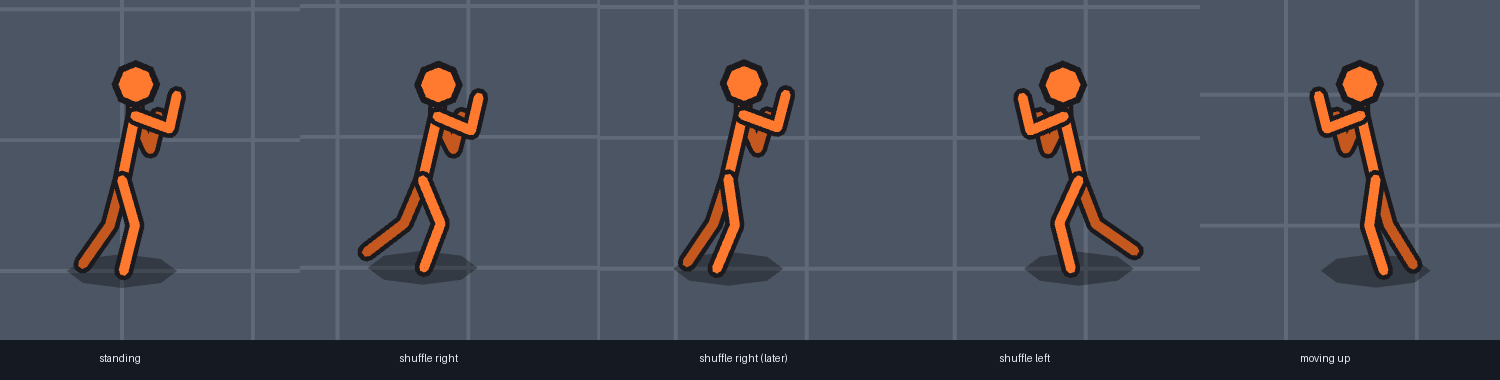
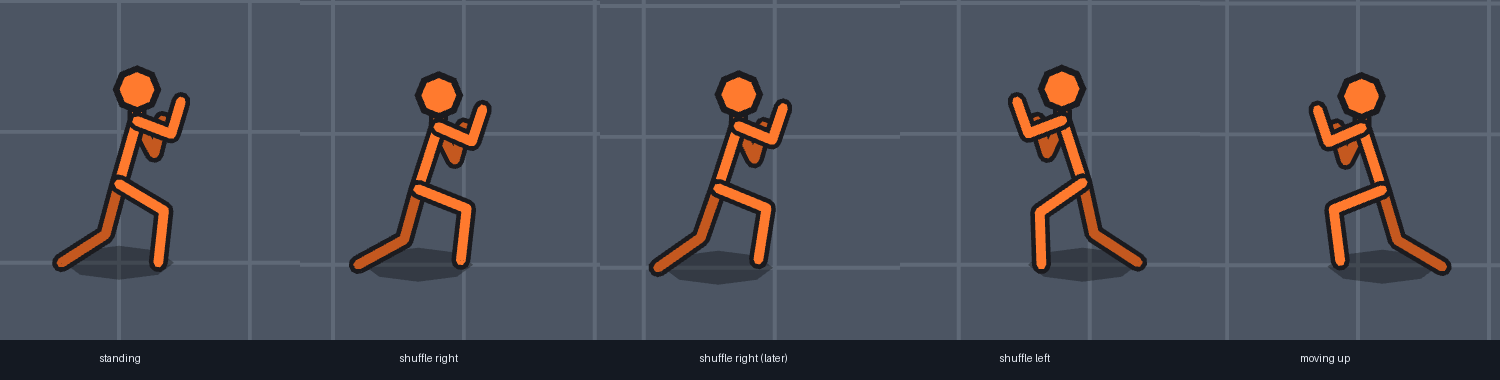
Wider, lower fighting stance with leg IK and planted feet
Two-bone leg IK places both feet on the floor in a ~0.74 m stagger:
long driving rear leg, bent lead knee, low hips, tucked chin, light
bounce when idle. Test fighter legs lengthened to suit. Tests cover IK
accuracy, planted feet, stance width and that knees never lock.
(owner request)

Claude-Session: https://claude.ai/code/session_01QBNX6gUrhxuARRaUjYajAg

diff --git a/tests/unit/animation/skeleton.test.ts b/tests/unit/animation/skeleton.test.ts
@@ -1,20 +1,20 @@
 import { describe, expect, it } from 'vitest';
 import { StickmanAnimator } from '../../../src/animation/animator';
 import { AIR_POSE, idlePose, WALK_STRIDE_M, walkPose } from '../../../src/animation/greybox-motion';
-import { blendPose, type Pose, solveSkeleton } from '../../../src/animation/skeleton';
+import { blendPose, legIk, type Pose, solveSkeleton } from '../../../src/animation/skeleton';
 import { GREYBOX_STICKMAN } from '../../../src/data/fighters/greybox-stickman';
 
 const BONES = GREYBOX_STICKMAN.bones;
 const samplePoses: [string, Pose][] = [
-  ['idle 0s', idlePose(0)],
-  ['idle 1.3s', idlePose(1.3)],
-  ...[0, 0.25, 0.5, 0.75].map((p): [string, Pose] => [`walk ${p}`, walkPose(p)]),
+  ['idle 0s', idlePose(0, BONES)],
+  ['idle bounce', idlePose(0.14, BONES)],
+  ...[0, 0.25, 0.5, 0.75].map((p): [string, Pose] => [`walk ${p}`, walkPose(p, BONES)]),
   ['air', AIR_POSE],
 ];
 
 describe('jointed skeleton (REQ-ANI-6)', () => {
   it('has a real elbow and knee on every limb, and they actually bend', () => {
-    const s = solveSkeleton(walkPose(0.25), BONES);
+    const s = solveSkeleton(walkPose(0.25, BONES), BONES);
     for (const limb of [s.armFront, s.armBack, s.legFront, s.legBack]) {
       expect(limb).toHaveLength(3); // root → middle joint → end
       const [a, b, c] = limb;
@@ -45,16 +45,59 @@ describe('jointed skeleton (REQ-ANI-6)', () => {
 
   it('fighting shuffle: feet stay staggered (lead foot ahead) and never cross at any point in the cycle', () => {
     for (let i = 0; i < 40; i++) {
-      const s = solveSkeleton(walkPose(i / 40), BONES);
-      expect(s.legFront[2].x - s.legBack[2].x).toBeGreaterThan(0.12);
+      const s = solveSkeleton(walkPose(i / 40, BONES), BONES);
+      expect(s.legFront[2].x - s.legBack[2].x).toBeGreaterThan(0.45); // wide even mid-step
     }
-    const idle = solveSkeleton(idlePose(0), BONES);
-    expect(idle.legFront[2].x - idle.legBack[2].x).toBeGreaterThan(0.12);
+  });
+
+  it('idle is a wide, low, planted stance: both feet on the floor about 0.74 m apart, knees bent', () => {
+    for (const t of [0, 0.1, 0.2, 0.3, 0.4]) {
+      const s = solveSkeleton(idlePose(t, BONES), BONES);
+      expect(s.legFront[2].y).toBeCloseTo(0, 3);
+      expect(s.legBack[2].y).toBeCloseTo(0, 3);
+      expect(s.legFront[2].x - s.legBack[2].x).toBeGreaterThan(0.6);
+      // crouched: hips clearly lower than a straight-legged stand
+      expect(-s.pelvis.y).toBeLessThan(BONES.thigh + BONES.shin - 0.08);
+    }
+  });
+
+  it('knees never lock fully straight while standing or shuffling (no stiff legs)', () => {
+    const straight = BONES.thigh + BONES.shin;
+    const poses = [
+      ...[0, 0.1, 0.2, 0.3].map((t) => idlePose(t, BONES)),
+      ...Array.from({ length: 40 }, (_, i) => walkPose(i / 40, BONES)),
+    ];
+    for (const pose of poses) {
+      const s = solveSkeleton(pose, BONES);
+      for (const [hip, , foot] of [s.legFront, s.legBack]) {
+        expect(Math.hypot(foot.x - hip.x, foot.y - hip.y)).toBeLessThan(straight - 0.012);
+      }
+    }
   });
 
   it('blends joint by joint', () => {
-    const mid = blendPose(idlePose(0), AIR_POSE, 0.5);
-    expect(mid.legFront.bend).toBeCloseTo((idlePose(0).legFront.bend + AIR_POSE.legFront.bend) / 2, 9);
+    const mid = blendPose(idlePose(0, BONES), AIR_POSE, 0.5);
+    expect(mid.legFront.bend).toBeCloseTo((idlePose(0, BONES).legFront.bend + AIR_POSE.legFront.bend) / 2, 9);
+  });
+});
+
+describe('legIk', () => {
+  it('puts the foot exactly on the target with the knee bent forward', () => {
+    const leg = legIk(0.3, 0.6, BONES.thigh, BONES.shin);
+    const kneeX = Math.sin(leg.root) * BONES.thigh;
+    const kneeY = Math.cos(leg.root) * BONES.thigh;
+    const footX = kneeX + Math.sin(leg.root + leg.bend) * BONES.shin;
+    const footY = kneeY + Math.cos(leg.root + leg.bend) * BONES.shin;
+    expect(footX).toBeCloseTo(0.3, 6);
+    expect(footY).toBeCloseTo(0.6, 6);
+    expect(leg.bend).toBeLessThan(0); // knee flexes like a real knee
+    expect(kneeX).toBeGreaterThan(0.3 * (kneeY / 0.6)); // knee sits forward of the hip–foot line
+  });
+
+  it('reaches as far as it can towards an out-of-range target without breaking', () => {
+    const leg = legIk(2, 2, BONES.thigh, BONES.shin);
+    expect(Number.isFinite(leg.root)).toBe(true);
+    expect(Math.abs(leg.bend)).toBeLessThan(0.05); // nearly straight
   });
 });
 
@@ -62,7 +105,7 @@ describe('StickmanAnimator', () => {
   const motion = { speedMps: 5, maxSpeedMps: 5, heightM: 0, peakHeightM: 0.4 };
 
   it('eases into the walk instead of snapping', () => {
-    const anim = new StickmanAnimator();
+    const anim = new StickmanAnimator(BONES);
     anim.update(1 / 60, motion);
     expect(anim.weights.walk).toBeGreaterThan(0);
     expect(anim.weights.walk).toBeLessThan(0.3);
@@ -71,7 +114,7 @@ describe('StickmanAnimator', () => {
   });
 
   it('blends towards the airborne pose with hop height and back on landing', () => {
-    const anim = new StickmanAnimator();
+    const anim = new StickmanAnimator(BONES);
     for (let i = 0; i < 30; i++) anim.update(1 / 60, { ...motion, speedMps: 0, heightM: 0.4 });
     expect(anim.weights.air).toBeGreaterThan(0.95);
     for (let i = 0; i < 30; i++) anim.update(1 / 60, { ...motion, speedMps: 0, heightM: 0 });
@@ -81,8 +124,8 @@ describe('StickmanAnimator', () => {
   it('a stride of walking distance advances exactly one walk cycle (feet keep pace)', () => {
     expect(WALK_STRIDE_M).toBeGreaterThan(0);
     // One stride of distance returns the cycle to its starting pose.
-    const a = new StickmanAnimator();
-    const b = new StickmanAnimator();
+    const a = new StickmanAnimator(BONES);
+    const b = new StickmanAnimator(BONES);
     for (let i = 0; i < 120; i++) {
       a.update(1 / 60, motion);
       b.update(1 / 60, motion);

diff --git a/src/animation/greybox-motion.ts b/src/animation/greybox-motion.ts
@@ -1,4 +1,4 @@
-import type { Pose } from './skeleton';
+import { type BoneLengths, legIk, type Pose } from './skeleton';
 
 /**
  * GREYBOX idle, walk and airborne motion for the Phase 2 test stickman.
@@ -12,45 +12,81 @@ const TAU = Math.PI * 2;
 // positive (forearm forward), knees bend negative (shin backward), like real joints.
 
 /**
- * FIGHTING STANCE at all times (owner, 11/11/2026): hands up in a guard by the
- * chin (lead fist forward, rear fist tucked), knees bent, feet staggered with
- * the lead foot ahead, torso leaning into the fight. Idle breathes inside the
- * stance; it never relaxes into a casual pose.
+ * FIGHTING STANCE at all times (owner, 11/11/2026): a wide, low, staggered
+ * base with both feet planted (leg IK), knees bent over the toes, torso leaning
+ * in, chin tucked, guard up (lead fist forward at chin height, rear fist by
+ * the jaw). Idle bounces lightly on the balls of the feet; it never relaxes.
  */
-export function idlePose(timeS: number): Pose {
-  const breath = 0.5 + 0.5 * Math.sin((timeS / 2.4) * TAU); // 0..1
+interface StanceShape {
+  /** Pelvis height above the floor (lower = deeper crouch). */
+  pelvisM: number;
+  /** Foot positions relative to the pelvis (+x towards facing). */
+  leadFootX: number;
+  rearFootX: number;
+  leadLiftM?: number;
+  rearLiftM?: number;
+  lean: number;
+  head: number;
+  /** 0..1 small guard bob. */
+  guard: number;
+}
+
+/**
+ * Wide stagger, about 0.74 m between the feet: the lead knee does the bending,
+ * the rear leg stays long and nearly straight, driving from the ball of the foot.
+ */
+const LEAD_FOOT_X = 0.3;
+const REAR_FOOT_X = -0.44;
+const CROUCH_M = 0.62;
+
+function fightingStance(s: StanceShape, bones: BoneLengths): Pose {
   return {
-    lean: deg(-10 - breath * 1.5),
-    head: deg(10),
-    armFront: { root: deg(84 - breath * 3), bend: deg(94 + breath * 4) },
-    armBack: { root: deg(36), bend: deg(140 + breath * 2) },
-    legFront: { root: deg(16), bend: deg(-26 - breath * 4) },
-    legBack: { root: deg(-15), bend: deg(-16 - breath * 4) },
+    lean: deg(s.lean),
+    head: deg(s.head),
+    armFront: { root: deg(88 - s.guard * 4), bend: deg(90 + s.guard * 6) },
+    armBack: { root: deg(42 + s.guard * 3), bend: deg(138) },
+    legFront: legIk(s.leadFootX, s.pelvisM - (s.leadLiftM ?? 0), bones.thigh, bones.shin),
+    legBack: legIk(s.rearFootX, s.pelvisM - (s.rearLiftM ?? 0), bones.thigh, bones.shin),
   };
+}
+
+/** Idle: planted wide stance with a light bounce on the balls of the feet (1.8 bounces per second). */
+export function idlePose(timeS: number, bones: BoneLengths): Pose {
+  const bounce = 0.5 + 0.5 * Math.sin(timeS * TAU * 1.8);
+  return fightingStance(
+    {
+      pelvisM: CROUCH_M - bounce * 0.025,
+      leadFootX: LEAD_FOOT_X,
+      rearFootX: REAR_FOOT_X,
+      lean: -16,
+      head: 16,
+      guard: bounce,
+    },
+    bones,
+  );
 }
 
 /**
  * Fighting shuffle, sampled by phase (0..1 per cycle). The caller advances the
  * phase by distance travelled / stride, so feet keep pace with the ground.
- * Boxer footwork: the lead foot steps, the rear foot follows a quarter-cycle
- * later; feet stay low, keep their stagger and never cross. The guard stays up
- * with only a small bob: no swinging arms.
+ * The lead foot steps, the rear foot follows a quarter-cycle later; feet stay
+ * low, keep the wide stagger and never cross. The guard only bobs.
  */
-export function walkPose(phase: number): Pose {
+export function walkPose(phase: number, bones: BoneLengths): Pose {
   const a = phase * TAU;
-  const lead = Math.sin(a);
-  const rear = Math.sin(a - Math.PI / 2);
-  const leadLift = Math.max(0, Math.cos(a));
-  const rearLift = Math.max(0, Math.cos(a - Math.PI / 2));
-  const bob = 0.5 + 0.5 * Math.sin(2 * a);
-  return {
-    lean: deg(-13),
-    head: deg(11),
-    armFront: { root: deg(84 - bob * 4), bend: deg(94 + bob * 6) },
-    armBack: { root: deg(36 + bob * 3), bend: deg(140) },
-    legFront: { root: deg(17 + lead * 9), bend: deg(-26 - leadLift * 22) },
-    legBack: { root: deg(-16 + rear * 9), bend: deg(-16 - rearLift * 22) },
-  };
+  return fightingStance(
+    {
+      pelvisM: CROUCH_M - 0.015 * Math.sin(2 * a),
+      leadFootX: LEAD_FOOT_X + 0.06 * Math.sin(a),
+      rearFootX: REAR_FOOT_X + 0.02 * Math.sin(a - Math.PI / 2),
+      leadLiftM: 0.07 * Math.max(0, Math.cos(a)),
+      rearLiftM: 0.07 * Math.max(0, Math.cos(a - Math.PI / 2)),
+      lean: -18,
+      head: 17,
+      guard: 0.5 + 0.5 * Math.sin(2 * a),
+    },
+    bones,
+  );
 }
 
 /** Distance (m) covered by one full shuffle cycle (lead step + rear follow). */
@@ -58,8 +94,8 @@ export const WALK_STRIDE_M = 1.1;
 
 /** Airborne tuck: knees up, guard kept up. */
 export const AIR_POSE: Pose = {
-  lean: deg(-8),
-  head: deg(6),
+  lean: deg(-12),
+  head: deg(12),
   armFront: { root: deg(95), bend: deg(85) },
   armBack: { root: deg(45), bend: deg(130) },
   legFront: { root: deg(60), bend: deg(-95) },

diff --git a/src/animation/animator.ts b/src/animation/animator.ts
@@ -1,5 +1,5 @@
 import { AIR_POSE, idlePose, WALK_STRIDE_M, walkPose } from './greybox-motion';
-import { blendPose, type Pose } from './skeleton';
+import { type BoneLengths, blendPose, type Pose } from './skeleton';
 
 /** Exponential smoothing factor for a time step (frame-rate independent). */
 export function smoothing(rate: number, dtS: number): number {
@@ -26,6 +26,8 @@ export class StickmanAnimator {
   private walkWeight = 0;
   private airWeight = 0;
 
+  constructor(private readonly bones: BoneLengths) {}
+
   /** Advance by a time step and return the pose to draw. */
   update(dtS: number, motion: MotionInput): Pose {
     this.timeS += dtS;
@@ -36,7 +38,7 @@ export class StickmanAnimator {
     const airTarget = motion.peakHeightM > 0 ? Math.min(1, motion.heightM / (motion.peakHeightM * 0.4)) : 0;
     this.airWeight += (airTarget - this.airWeight) * smoothing(18, dtS);
 
-    const grounded = blendPose(idlePose(this.timeS), walkPose(this.walkPhase), this.walkWeight);
+    const grounded = blendPose(idlePose(this.timeS, this.bones), walkPose(this.walkPhase, this.bones), this.walkWeight);
     return blendPose(grounded, AIR_POSE, this.airWeight);
   }
 

diff --git a/src/animation/skeleton.ts b/src/animation/skeleton.ts
@@ -115,3 +115,20 @@ export function blendPose(a: Pose, b: Pose, t: number): Pose {
     legBack: limb(a.legBack, b.legBack),
   };
 }
+
+/**
+ * Two-bone leg IK (TD-022): angles that put the foot exactly at (footX, footY)
+ * relative to the pelvis (+x towards facing, +y down), with the knee bending
+ * forward over the toes like a real leg. Out-of-reach targets are approached
+ * along the same line with the leg almost straight.
+ */
+export function legIk(footX: number, footY: number, thigh: number, shin: number): Limb {
+  const reach = Math.min(Math.hypot(footX, footY), thigh + shin - 1e-4);
+  const toFoot = Math.atan2(footX, footY);
+  const cosHip = (thigh * thigh + reach * reach - shin * shin) / (2 * thigh * reach);
+  const thighAngle = toFoot + Math.acos(Math.min(1, Math.max(-1, cosHip)));
+  const kneeX = Math.sin(thighAngle) * thigh;
+  const kneeY = Math.cos(thighAngle) * thigh;
+  const shinAngle = Math.atan2(footX - kneeX, footY - kneeY);
+  return { root: thighAngle, bend: shinAngle - thighAngle };
+}

diff --git a/src/app/scenes/training-yard-scene.ts b/src/app/scenes/training-yard-scene.ts
@@ -35,7 +35,7 @@ export class TrainingYardScene implements ArenaScene {
   private view: GreyboxArenaView | null = null;
   private stickman: StickmanView | null = null;
   private body: ReturnType<PhysicsWorld['addCharacterBody']> | null = null;
-  private readonly animator = new StickmanAnimator();
+  private readonly animator = new StickmanAnimator(GREYBOX_STICKMAN.bones);
   private hop: HopState = { heightM: 0, verticalSpeedMps: 0 };
   private prevHop = 0;
   private readonly prev = { x: 0, y: 0 };

diff --git a/src/data/fighters/greybox-stickman.ts b/src/data/fighters/greybox-stickman.ts
@@ -25,8 +25,8 @@ export const GREYBOX_STICKMAN = {
     headRadius: 0.16,
     upperArm: 0.28,
     foreArm: 0.26,
-    thigh: 0.36,
-    shin: 0.36,
+    thigh: 0.4,
+    shin: 0.4,
   },
   look: {
     limb: 0xff7a2e,

diff --git a/DEVELOPMENT_PROGRESS.md b/DEVELOPMENT_PROGRESS.md
@@ -175,6 +175,13 @@ TD-017 updated: game on GitHub Pages (manual deploy workflow); Supabase Free sti
 - The hop is visual only (cannot clear obstacles); revisit in combat or arena phases.
 - The figure is about 1.4 m on an 11 m-wide view; revisit scale with art direction (OQ-16).
 
+### 11/11/2026: Wider, lower fighting stance with planted feet (owner request)
+**Owner:** "It should have a wider leg stance and more fighter feel."
+**Change:** added **two-bone leg IK** (`legIk` in `src/animation/skeleton.ts`), so stances are defined by where the feet stand and the knees solve themselves (always bending forward over the toes, with both feet planted). Greybox stance: about 0.74 m stagger (lead foot 0.30 m ahead, rear foot 0.44 m behind); the rear leg long and nearly straight, driving; the lead knee bent; hips at 0.62 m; deeper lean and tucked chin; idle bounces lightly on the balls of the feet (1.8 bounces per second). Test-fighter legs lengthened (thigh and shin 0.36 → 0.40 m) so a wide stance does not force a kneeling crouch.
+**Iterations (honest record):** (1) fixed-angle wide pose: the rear foot floated off the floor, which led to the IK; (2) IK at a 0.54 m crouch: a test caught the lead leg locking straight at full stride; (3) it then looked like a kneeling lunge, so the legs were lengthened; (4) the rear knee still dipped, so the rear foot was moved further back. Each step was checked with in-game captures.
+**New tests (79 total, all passing):** IK puts the foot exactly on target with the knee forward, and handles out-of-reach targets; idle has both feet on the floor at least 0.6 m apart with the hips crouched; the shuffle keeps at least 0.45 m of stagger throughout; **knees never lock fully straight** across idle and 40 shuffle phases.
+**Verified:** lint, typecheck, build and e2e pass; in-game captures in `docs/screenshots/phase2-fighting-stance.png`.
+
 ### 11/11/2026: Fighting stance at all times (owner request)
 **Owner:** "Ensure arms and body are not awkward when walking; the stickman should have a fighting walking stance at all times."
 **Change:** the greybox idle, walk and air poses were rewritten (`src/animation/greybox-motion.ts`). Guard up (lead fist forward at chin height, rear fist tucked), knees always bent, staggered feet with the lead foot ahead, torso leaning in. Walking became a **boxer shuffle**: the lead foot steps, the rear follows a quarter-cycle later, feet stay low and never cross, and the guard only bobs slightly (no arm swing). Stride is now 1.1 m. Spec REQ-ANI-7 extended.
